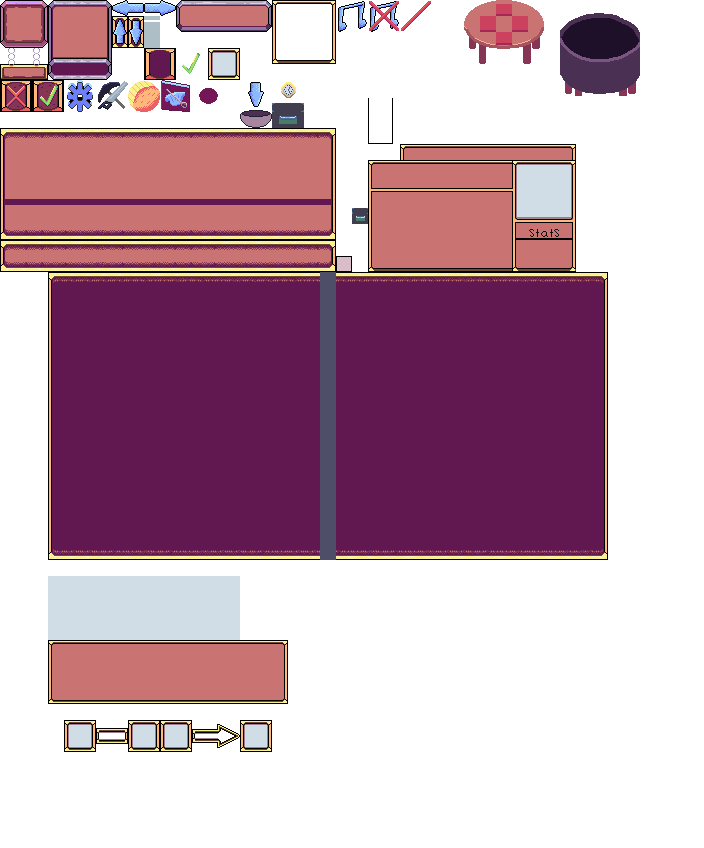
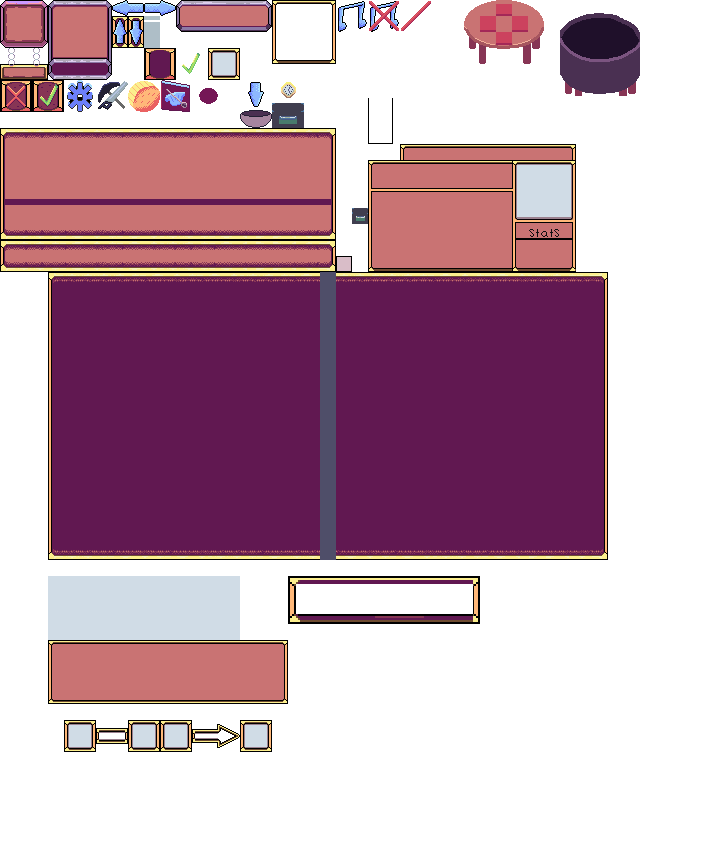
add health and mana ui bars

Changed region(s): [[0.4062, 0.6745, 0.6875, 0.7358]]

diff --git a/UIEngine/Classes/Components/UIProgressBar.cs b/UIEngine/Classes/Components/UIProgressBar.cs
@@ -11,18 +11,18 @@ using System.Threading.Tasks;
 
 namespace UIEngine.Classes.Components
 {
-    internal class UIProgressBar : InterfaceSection
+    public class UIProgressBar : InterfaceSection
     {
 
-        private static Rectangle _sourceRectangle = new Rectangle(0, 16, 32, 16);
+        protected Rectangle SourceRectangle = new Rectangle(0, 16, 32, 16);
 
 
-        private DestinationRectangleSprite _outLineSprite;
-        private Sprite _foreGroundSprite;
+        protected DestinationRectangleSprite OutlineSprite { get; set; }
+        protected Sprite ForegroundSprite { get; set; }
 
-        private Vector2 _scale;
+        protected Vector2 Scale { get; set; }
 
-        public Color ProgressBarColor { get; set; } = Color.White;
+        public Color ProgressColor { get; set; } = Color.White;
         public UIProgressBar(InterfaceSection interfaceSection, GraphicsDevice graphicsDevice, ContentManager content,
             Vector2? position, float layerDepth) : 
             base(interfaceSection, graphicsDevice, content, position, layerDepth)
@@ -31,20 +31,20 @@ namespace UIEngine.Classes.Components
         }
         public override void LoadContent()
         {
-             _scale = new Vector2(2f, 2f);
+             Scale = new Vector2(2f, 2f);
            
-            _outLineSprite = SpriteFactory.CreateDestinationSprite(1, (int)((float)16 * (float)_scale.Y), Position, new Rectangle(0, 0, 1, 1),
-                  SpriteFactory.StatusIconTexture, Globals.Classes.Settings.ElementType.UI, customLayer: GetLayeringDepth(UILayeringDepths.Low), primaryColor: ProgressBarColor);
-            _foreGroundSprite = SpriteFactory.CreateUISprite(Position, _sourceRectangle, SpriteFactory.StatusIconTexture,
-             customLayer: GetLayeringDepth(UILayeringDepths.Medium), scale: _scale);
+            OutlineSprite = SpriteFactory.CreateDestinationSprite(1, (int)((float)SourceRectangle.Height * (float)Scale.Y), Position, new Rectangle(0, 0, 1, 1),
+                  SpriteFactory.StatusIconTexture, Globals.Classes.Settings.ElementType.UI, customLayer: GetLayeringDepth(UILayeringDepths.Low), primaryColor: ProgressColor);
+            ForegroundSprite = SpriteFactory.CreateUISprite(Position, SourceRectangle, SpriteFactory.StatusIconTexture,
+             customLayer: GetLayeringDepth(UILayeringDepths.Medium), scale: Scale);
 
-            TotalBounds = new Rectangle((int)Position.X, (int)Position.Y, (int)((float)_foreGroundSprite.Width * _scale.X), (int)((float)_foreGroundSprite.Height * _scale.Y));
+            TotalBounds = new Rectangle((int)Position.X, (int)Position.Y, (int)((float)ForegroundSprite.Width * Scale.X), (int)((float)ForegroundSprite.Height * Scale.Y));
            // base.LoadContent();
         }
 
-        public void GetProgressRatio(float ratio)
+        public void SetProgressRatio(float ratio)
         {
-            _outLineSprite.RectangleWidth = (int)(ratio * (float)_sourceRectangle.Width * _scale.X);
+            OutlineSprite.RectangleWidth = (int)(ratio * (float)SourceRectangle.Width * Scale.X);
 
         }
         public override void Update(GameTime gameTime)
@@ -52,8 +52,8 @@ namespace UIEngine.Classes.Components
             base.Update(gameTime);
             if (IsActive)
             {
-                _outLineSprite.Update(gameTime, Position);
-                _foreGroundSprite.Update(gameTime, Position);
+                OutlineSprite.Update(gameTime, Position);
+                ForegroundSprite.Update(gameTime, Position);
             }
         }
         public override void MovePosition(Vector2 newPos)
@@ -66,8 +66,8 @@ namespace UIEngine.Classes.Components
             base.Draw(spriteBatch);
             if (IsActive)
             {
-                _outLineSprite.Draw(spriteBatch);
-                _foreGroundSprite.Draw(spriteBatch);
+                OutlineSprite.Draw(spriteBatch);
+                ForegroundSprite.Draw(spriteBatch);
             }
         }
     }

diff --git a/UIEngine/Classes/StatusStuff/StatusPanel.cs b/UIEngine/Classes/StatusStuff/StatusPanel.cs
@@ -1,0 +1,63 @@
+using Globals.Classes.Helpers;
+using Microsoft.Xna.Framework;
+using Microsoft.Xna.Framework.Content;
+using Microsoft.Xna.Framework.Graphics;
+using System;
+using System.Collections.Generic;
+using System.Linq;
+using System.Text;
+using System.Threading.Tasks;
+using UIEngine.Classes.Components;
+
+namespace UIEngine.Classes.StatusStuff
+{
+    public class StatusPanel : InterfaceSection
+    {
+        public HealthBar HealthBar { get; set; }
+
+        public ManaBar ManaBar { get; set; }
+
+
+        private StackPanel _stackPanel;
+        public StatusPanel(InterfaceSection interfaceSection, GraphicsDevice graphicsDevice, ContentManager content,
+            Vector2? position, float layerDepth) : 
+            base(interfaceSection, graphicsDevice, content, position, layerDepth)
+        {
+            Position = new Vector2(32,32);
+        }
+
+        public override void LoadContent()
+        {
+            _stackPanel = new StackPanel(this, graphics, content, Position, GetLayeringDepth(SpriteEngine.Classes.UILayeringDepths.Low));
+            StackRow _stackRow1 = new StackRow(192);
+            HealthBar = new HealthBar(_stackPanel, graphics, content, Position,
+               GetLayeringDepth(SpriteEngine.Classes.UILayeringDepths.Low));
+            HealthBar.LoadContent();
+            _stackRow1.AddItem(HealthBar,StackOrientation.Left);
+            _stackPanel.Add(_stackRow1);
+
+            StackRow _stackRow2 = new StackRow(192);
+            _stackRow2.AddSpacer(new Rectangle(0, 0, 64, 16),StackOrientation.Left);
+            _stackPanel.Add(_stackRow2);
+
+            StackRow _stackRow3 = new StackRow(192);
+            ManaBar = new ManaBar(_stackPanel, graphics, content, Position,
+               GetLayeringDepth(SpriteEngine.Classes.UILayeringDepths.Low));
+            ManaBar.LoadContent();
+
+            _stackRow3.AddItem(ManaBar, StackOrientation.Left);
+            _stackPanel.Add(_stackRow3);
+
+        }
+
+        public override void Update(GameTime gameTime)
+        {
+            base.Update(gameTime);
+        }
+
+        public override void Draw(SpriteBatch spriteBatch)
+        {
+            base.Draw(spriteBatch);
+        }
+    }
+}

diff --git a/UIEngine/Classes/StatusStuff/HealthBar.cs b/UIEngine/Classes/StatusStuff/HealthBar.cs
@@ -1,0 +1,54 @@
+using Microsoft.Xna.Framework;
+using Microsoft.Xna.Framework.Content;
+using Microsoft.Xna.Framework.Graphics;
+using SpriteEngine.Classes;
+using System;
+using System.Collections.Generic;
+using System.Linq;
+using System.Text;
+using System.Threading.Tasks;
+using UIEngine.Classes.Components;
+
+namespace UIEngine.Classes.StatusStuff
+{
+    public class HealthBar : UIProgressBar
+    {
+        private readonly Color HealthyColor = new Color(205, 94, 111);
+
+        public HealthBar(InterfaceSection interfaceSection, GraphicsDevice graphicsDevice, ContentManager content,
+            Vector2? position, float layerDepth) : 
+            base(interfaceSection, graphicsDevice, content, position, layerDepth)
+        {
+            ProgressColor = HealthyColor;
+
+        }
+
+        public override void MovePosition(Vector2 newPos)
+        {
+            base.MovePosition(newPos);
+        
+        }
+        public override void LoadContent()
+        {
+            // MovePosition(Position);
+            SourceRectangle = new Rectangle(288, 576, 192, 48);
+            Scale = new Vector2(1f, 1f);
+            OutlineSprite = SpriteFactory.CreateDestinationSprite(1, (int)((float)SourceRectangle.Height * (float)Scale.Y), Position, new Rectangle(688, 0, 1, 1),
+                   UI.ButtonTexture, Globals.Classes.Settings.ElementType.UI, customLayer: GetLayeringDepth(UILayeringDepths.Low), primaryColor: ProgressColor);
+            ForegroundSprite = SpriteFactory.CreateUISprite(Position, SourceRectangle, UI.ButtonTexture,
+             customLayer: GetLayeringDepth(UILayeringDepths.Medium), scale: Scale);
+
+            TotalBounds = new Rectangle((int)Position.X, (int)Position.Y, (int)((float)ForegroundSprite.Width * Scale.X), (int)((float)ForegroundSprite.Height * Scale.Y));
+        }
+        public override void Update(GameTime gameTime)
+        {
+            base.Update(gameTime);
+        }
+        public override void Draw(SpriteBatch spriteBatch)
+        {
+            base.Draw(spriteBatch);
+        }
+
+     
+    }
+}

diff --git a/UIEngine/Classes/UI.cs b/UIEngine/Classes/UI.cs
@@ -30,6 +30,7 @@ using DataModels.MapStuff;
 using Globals.Classes.Time;
 using TextEngine;
 using ItemEngine.Classes.StorageStuff;
+using UIEngine.Classes.StatusStuff;
 
 namespace UIEngine.Classes
 {
@@ -84,6 +85,7 @@ namespace UIEngine.Classes
         internal static ToolBar ToolBar { get; set; }
         internal static ClockBar ClockBar { get; set; }
 
+        public static StatusPanel StatusPanel { get; set; }
         internal static Curtain Curtain { get; set; }
         internal static EscMenu EscMenu { get; set; }
 
@@ -116,6 +118,8 @@ namespace UIEngine.Classes
 
             ToolBar = new ToolBar(null, graphics, content, null, GetLayeringDepth(UILayeringDepths.Low));
             ClockBar = new ClockBar(null, graphics, content, null, GetLayeringDepth(UILayeringDepths.Low));
+            StatusPanel = new StatusPanel(null, graphics, content, null, GetLayeringDepth(UILayeringDepths.Low));
+
             EscMenu = new EscMenu(null, graphics, content, null, GetLayeringDepth(UILayeringDepths.Medium));
             RecipeBook = new RecipeBook(null, graphics, content, null, GetLayeringDepth(UILayeringDepths.High));
             TalkingWindow = new TalkingWindow(null, graphics, content, null, GetLayeringDepth(UILayeringDepths.High));
@@ -123,7 +127,7 @@ namespace UIEngine.Classes
             Curtain = new Curtain(null, graphics, content, null, GetLayeringDepth(UILayeringDepths.Front));
             StorageDisplayHandler = new StorageDisplayHandler(null, graphics, content, null, GetLayeringDepth(UILayeringDepths.High));
             
-            s_standardSections = new List<InterfaceSection>() { ToolBar, ClockBar, TalkingWindow,
+            s_standardSections = new List<InterfaceSection>() { ToolBar, ClockBar,StatusPanel, TalkingWindow,
                 EscMenu, RecipeBook, StorageDisplayHandler };
 
             Cursor = new Cursor();

diff --git a/EntityEngine/Classes/PlayerStuff/Player.cs b/EntityEngine/Classes/PlayerStuff/Player.cs
@@ -38,6 +38,10 @@ namespace EntityEngine.Classes.PlayerStuff
         internal ProgressManager ProgressManager { get;set; }
 
         protected HullBody FrontalSensor { get; set; }
+
+
+        public int MaxMana { get; set; } = 100;
+        public int CurrentMana { get; set; } = 100;
         public Player(StageNPCContainer container, GraphicsDevice graphics, ContentManager content,PlayerManager playerContainer, string name = "playerName") : base(container, graphics,content)
         {
             Name = name;
@@ -78,6 +82,7 @@ namespace EntityEngine.Classes.PlayerStuff
         }
         protected override void ActivateTool(Tool tool)
         {
+            CurrentMana -= 5;
             Vector2 distance = Controls.WorldDistanceBetweenCursorAndVector(Position);
             distance.Normalize();
             tool.ActivateTool(distance, this);
@@ -147,6 +152,9 @@ namespace EntityEngine.Classes.PlayerStuff
         {
             base.Update(gameTime);
             UI.Cursor.PlayerPosition = Position;
+            UI.StatusPanel.HealthBar.SetProgressRatio((float)CurrentHealth / (float)MaxHealth);
+            UI.StatusPanel.ManaBar.SetProgressRatio((float)CurrentMana / (float)MaxMana);
+
             if (Controls.IsClickedWorld || Controls.WasGamePadButtonTapped(GamePadActionType.Y))
             {
                 //Item should not eject if any part of the ui is hovered

diff --git a/UIEngine/Classes/Storage/Configurations/FurnaceTableDisplay.cs b/UIEngine/Classes/Storage/Configurations/FurnaceTableDisplay.cs
@@ -32,8 +32,8 @@ namespace UIEngine.Classes.Storage.Configurations
             base.Update(gameTime);
             if (IsActive)
             {
-                UIProgressBar.GetProgressRatio((StorageContainer as CraftingStorageContainer).CraftedItemMetre.Ratio);
-                FuelBar.GetProgressRatio((StorageContainer as CraftingStorageContainer).FuelMetre.Ratio);
+                UIProgressBar.SetProgressRatio((StorageContainer as CraftingStorageContainer).CraftedItemMetre.Ratio);
+                FuelBar.SetProgressRatio((StorageContainer as CraftingStorageContainer).FuelMetre.Ratio);
                 //CraftingActionButton.Update(gameTime);
             }
         }
@@ -147,8 +147,8 @@ namespace UIEngine.Classes.Storage.Configurations
 
             }
             StackPanel.Add(stackRow);
-            UIProgressBar.ProgressBarColor = Color.White;
-            FuelBar.ProgressBarColor = Color.Orange;
+            UIProgressBar.ProgressColor = Color.White;
+            FuelBar.ProgressColor = Color.Orange;
            // UIProgressBar.MovePosition(new Vector2(UIProgressBar.Position.X, UIProgressBar.Position.Y + UIProgressBar.Height / 2));
             //FuelBar.MovePosition(new Vector2(FuelBar.Position.X, FuelBar.Position.Y + FuelBar.Height / 2));
 

diff --git a/SpriteEngine/Classes/BaseSprite.cs b/SpriteEngine/Classes/BaseSprite.cs
@@ -155,7 +155,6 @@ namespace SpriteEngine.Classes
 
         public void AddFaderEffect(float? maxOpac, float? speed, bool immediatelyTriggerFade = false)
         {
-            CheckCE();
             ColorShifter = new ColorShifter(PrimaryColor, speed, maxOpac);
             if(immediatelyTriggerFade)
                 TriggerIntensityEffect(); 
@@ -163,16 +162,11 @@ namespace SpriteEngine.Classes
 
         public void AddSaturateEffect(Color? targetColor, bool immediatelyTriggerSaturation = false)
         {
-            CheckCE();
             ColorShifter = new ColorShifter(PrimaryColor,null, targetColor);
             if (immediatelyTriggerSaturation)
                 TriggerIntensityEffect();
         }
-        private void CheckCE()
-        {
-            //if (ColorShifter != null)
-              //  throw new Exception($"Color Effect is already instantiated");
-        }
+  
         /// <summary>
         /// 
         /// </summary>

diff --git a/EntityEngine/Classes/Entity.cs b/EntityEngine/Classes/Entity.cs
@@ -89,6 +89,10 @@ namespace EntityEngine.Classes
 
         protected List<Tool> ToolList { get; set; }
 
+        public int MaxHealth { get; protected set; } = 100;
+        public int CurrentHealth { get; protected set; } = 100;
+
+        protected bool IsUsingTool => ToolList.Count > 0;
         public Entity(StageNPCContainer container, GraphicsDevice graphics, ContentManager content) : base()
         {
             _graphics = graphics;
@@ -272,7 +276,8 @@ namespace EntityEngine.Classes
             if(InventoryHandler.HeldItem != null && 
                 InventoryHandler.HeldItem.ItemType > DataModels.ItemStuff.ItemType.None)
             {
-
+                if (IsUsingTool)
+                    return;
                 Tool tool = (Tool)Tool.GetTool(InventoryHandler.HeldItem.ItemType.ToString());
                 if (tool == null)
                     return;

diff --git a/UIEngine/Classes/StatusStuff/ManaBar.cs b/UIEngine/Classes/StatusStuff/ManaBar.cs
@@ -1,0 +1,22 @@
+using Microsoft.Xna.Framework;
+using Microsoft.Xna.Framework.Content;
+using Microsoft.Xna.Framework.Graphics;
+using System;
+using System.Collections.Generic;
+using System.Linq;
+using System.Text;
+using System.Threading.Tasks;
+
+namespace UIEngine.Classes.StatusStuff
+{
+    public class ManaBar : HealthBar
+    {
+        private readonly Color ManaColor = new Color(134, 204, 209);
+
+        public ManaBar(InterfaceSection interfaceSection, GraphicsDevice graphicsDevice, ContentManager content,
+            Vector2? position, float layerDepth) : base(interfaceSection, graphicsDevice, content, position, layerDepth)
+        {
+            ProgressColor = ManaColor;
+        }
+    }
+}

diff --git a/ItemEngine/Classes/ItemStateStuff/FloatingItemBehaviour.cs b/ItemEngine/Classes/ItemStateStuff/FloatingItemBehaviour.cs
@@ -33,7 +33,7 @@ namespace ItemEngine.Classes.ItemStateStuff
         public override bool OnCollides(List<PhysicsGadget> gadgets, Fixture fixtureA, Fixture fixtureB, Contact contact)
         {
             if (fixtureB.CollisionCategories.HasFlag((Category)PhysCat.SolidLow) ||
-               fixtureB.CollisionCategories.HasFlag((Category)PhysCat.SolidLow))
+               fixtureB.CollisionCategories.HasFlag((Category)PhysCat.SolidHigh))
             {
                 //Floating object just hit the side of the island, probably
                 _isSinking = true;

diff --git a/ItemEngine/Classes/ToolStuff/Tool.cs b/ItemEngine/Classes/ToolStuff/Tool.cs
@@ -28,6 +28,7 @@ namespace ItemEngine.Classes.ToolStuff
 
         private List<Tool> _tools;
 
+
         public Tool()
         {
 
